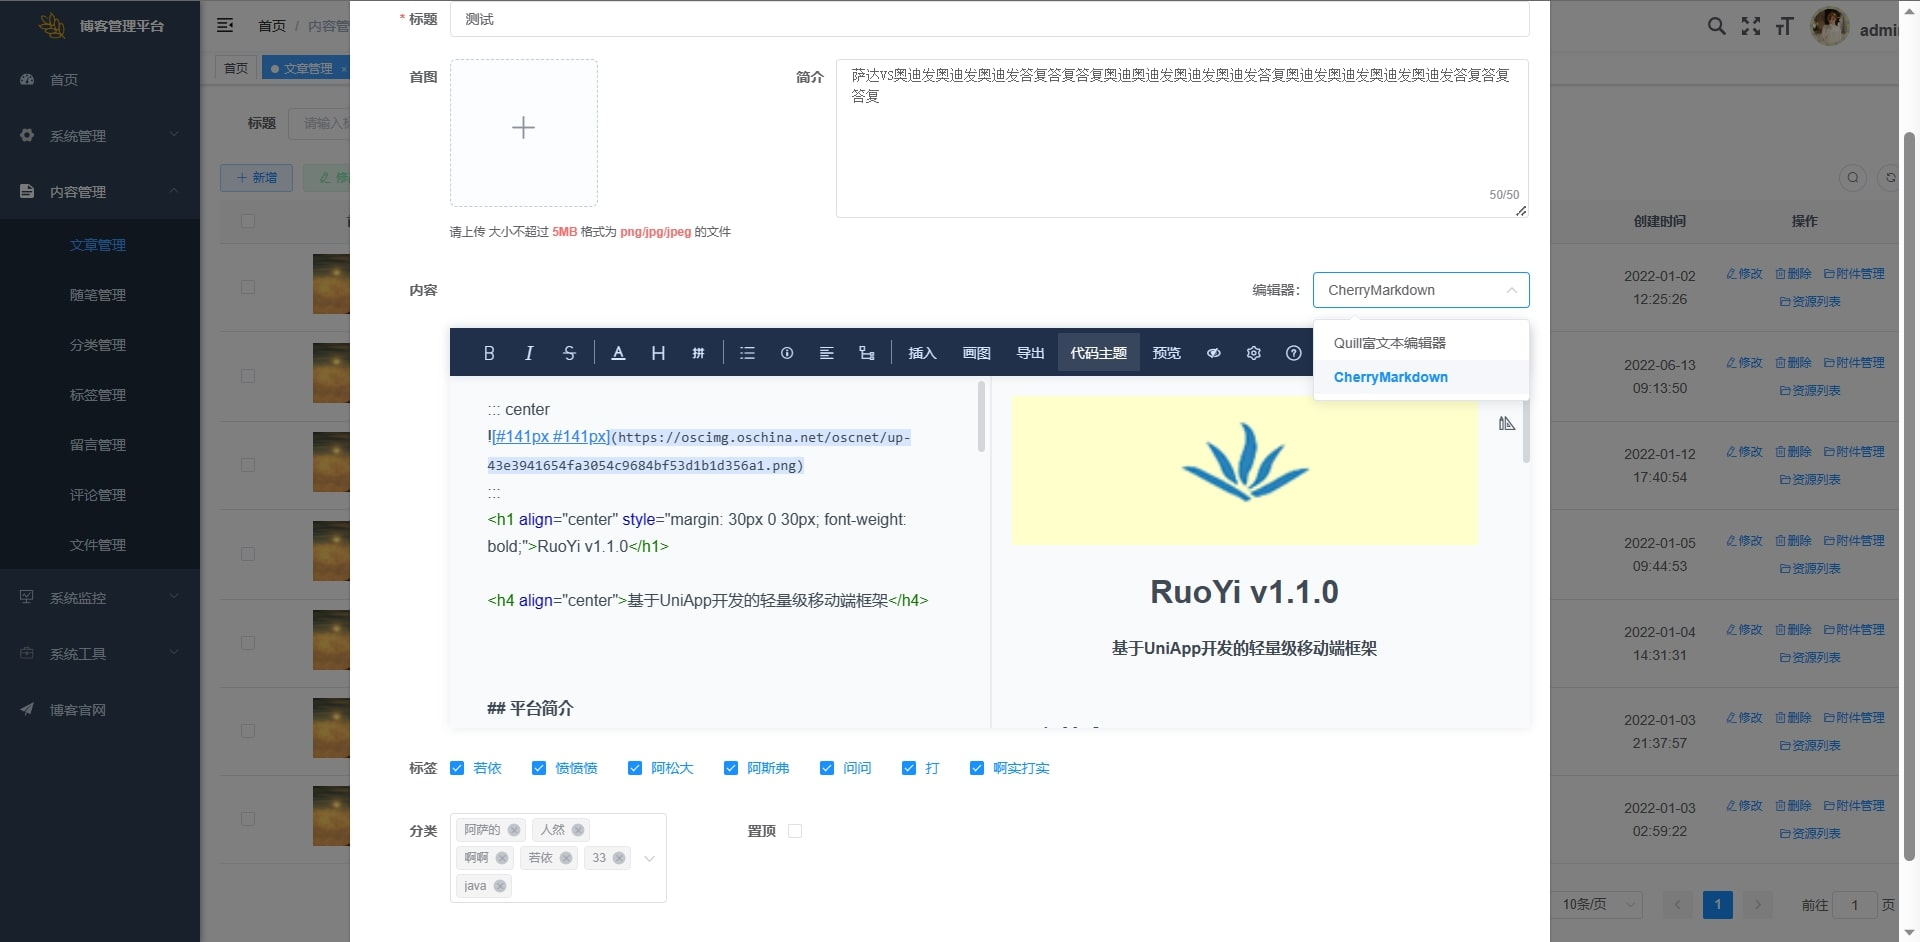
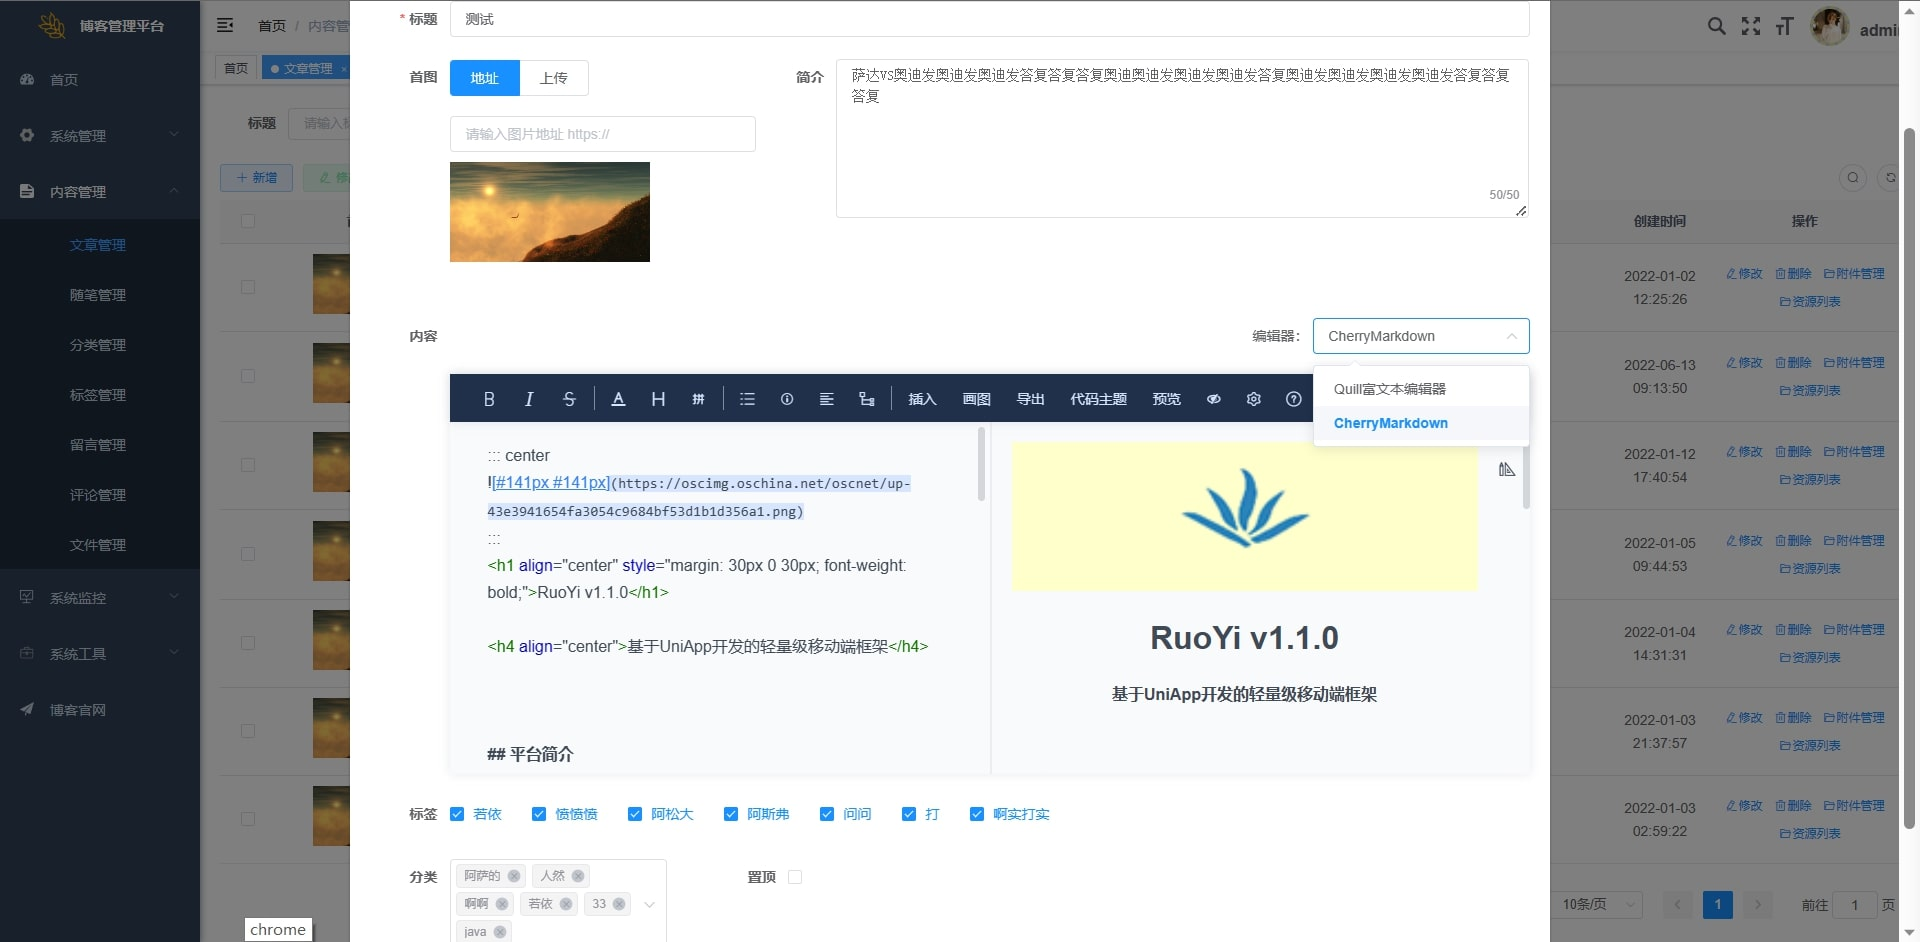
文章首图支持使用图片链接，分类图像支持使用图片链接

diff --git a/ruoyi-ui/src/views/cms/components/cmsIndex.vue b/ruoyi-ui/src/views/cms/components/cmsIndex.vue
@@ -12,42 +12,49 @@
         </div>
         <el-row type="flex" align="middle" style="flex-wrap: wrap" :gutter="20" v-for="blog in blogList" :key="blog.id"
           shadow="never" class="blog-content">
-          <el-col class="img" :xs="24" :sm="6">
-            <el-image lazy :src="blog.blogPic" @click="getBlogInfo(blog.id)"></el-image>
-          </el-col>
-          <el-col :xs="24" :sm="18" style="padding-left: 10px;padding-right: 10px;margin-bottom: 5px;margin-top: -5px;">
-            <div @click="getBlogInfo(blog.id)">
-              <h3><svg-icon icon-class="Topping" v-show="blog.top==1" /> {{blog.title}}</h3>
-              <div style="margin-bottom: 10px;">
-                  <span style="color: rgba(0, 0, 0, .4);"> {{blog.blogDesc}}</span>
-              </div>
-              <div style="margin-bottom: 10px;">
-                <el-tag effect="plain" size="mini" v-for="tag in blog.tags" :key="tag.tagId" type="success">
-                  {{tag.tagName}}
-                </el-tag>
-              </div>
-              <div class="blog-info">
-                <div class="user-info">
-                  <i class="el-icon-user"></i>
-                  <span class="header"> {{blog.createBy}}</span>
+          <div @click="getBlogInfo(blog.id)">
+            <el-col class="img" :xs="24" :sm="6">
+              <el-image v-if="blog.blogPicType == '0'" lazy :src="blog.blogPicLink">
+                <div slot="error" class="image-slot">
+                  <el-image src="/errorImg.jpg" fit="cover" class="blogPic">></el-image>
                 </div>
-                <div class="blog-date">
-                  <i class="el-icon-date"></i>
-                  <span> {{blog.createTime}}</span>
+              </el-image>
+              <el-image v-if="blog.blogPicType == '1'" lazy :src="blog.blogPic"></el-image>
+            </el-col>
+            <el-col :xs="24" :sm="18" style="padding-left: 10px;padding-right: 10px;margin-bottom: 5px;margin-top: -5px;">
+              <div>
+                <h3><svg-icon icon-class="Topping" v-show="blog.top==1" /> {{blog.title}}</h3>
+                <div style="margin-bottom: 10px;">
+                    <span style="color: rgba(0, 0, 0, .4);"> {{blog.blogDesc}}</span>
                 </div>
-                <div>
-                  <i class="el-icon-view"></i>
-                  <span> {{blog.views}}</span>
-                </div>
-                <div class="blog-type">
-                  <el-tag size="mini" v-for="tag in blog.types" :key="tag.typeId" type="info">
-                    {{tag.typeName}}
+                <div style="margin-bottom: 10px;">
+                  <el-tag effect="plain" size="mini" v-for="tag in blog.tags" :key="tag.tagId" type="success">
+                    {{tag.tagName}}
                   </el-tag>
                 </div>
+                <div class="blog-info">
+                  <div class="user-info">
+                    <i class="el-icon-user"></i>
+                    <span class="header"> {{blog.createBy}}</span>
+                  </div>
+                  <div class="blog-date">
+                    <i class="el-icon-date"></i>
+                    <span> {{blog.createTime}}</span>
+                  </div>
+                  <div>
+                    <i class="el-icon-view"></i>
+                    <span> {{blog.views}}</span>
+                  </div>
+                  <div class="blog-type">
+                    <el-tag size="mini" v-for="tag in blog.types" :key="tag.typeId" type="info">
+                      {{tag.typeName}}
+                    </el-tag>
+                  </div>
 
+                </div>
               </div>
-            </div>
-          </el-col>
+            </el-col>
+          </div>
         </el-row>
         <pagination v-show="total>0" :total="total" :page.sync="queryParams.pageNum" :limit.sync="queryParams.pageSize" background layout="total, sizes, prev, pager, next, jumper" @pagination="getBlogList"  style="margin-bottom: 30px;float: right;margin-right: 10px;"/>
       </el-card>
@@ -63,7 +70,13 @@
             :class="cmsType.typeId === typeId? 'activeType':''">
             <div style="display: flex;align-items: center">
               <el-image style="width: 28px;height: 28px; border-radius: 50%; margin-right: 10px" lazy
-                :src="cmsType.typePic">
+                :src="cmsType.typePicLink" v-show="cmsType.typePicType == '0'">
+                <div slot="error" style="width: 28px;height: 28px; border-radius: 50%;">
+                  <i class="el-icon-collection" style="margin-left:6px;"></i>
+                </div>
+              </el-image>
+              <el-image style="width: 28px;height: 28px; border-radius: 50%; margin-right: 10px" lazy
+                :src="cmsType.typePic" v-show="cmsType.typePicType == '1'">
                 <div slot="error" style="width: 28px;height: 28px; border-radius: 50%;">
                   <i class="el-icon-collection" style="margin-left:6px;"></i>
                 </div>
@@ -432,7 +445,7 @@
     box-shadow: 0 0 20px 0 white;
     transition: all .2s;
   }
-  
+
   .left-item .pagination-container{
     background:rgb(255, 255, 255,0)
   }

diff --git a/ruoyi-ui/src/views/cms/blog/index.vue b/ruoyi-ui/src/views/cms/blog/index.vue
@@ -44,11 +44,22 @@
       <el-table-column label="首图预览" align="center" prop="blogPic" >
         <template slot-scope="scope">
           <el-image
-              style="width: 120px;height: 60px;"
-              :src="scope.row.blogPic"
-              lazy
-              :preview-src-list="[scope.row.blogPic]">
-            </el-image>
+            v-if="scope.row.blogPicType == '0'"
+            style="width: 120px;height: 60px;"
+            :src="scope.row.blogPicLink"
+            lazy
+            :preview-src-list="[scope.row.blogPicLink]">
+              <div slot="error" class="image-slot">
+                <el-image src="/errorImg.jpg" fit="cover" class="blogPic"></el-image>
+              </div>
+          </el-image>
+          <el-image
+            v-if="scope.row.blogPicType == '1'"
+            style="width: 120px;height: 60px;"
+            :src="scope.row.blogPic"
+            lazy
+            :preview-src-list="[scope.row.blogPic]">
+          </el-image>
         </template>
       </el-table-column>
       <el-table-column label="标题" align="center" prop="title" />
@@ -103,7 +114,21 @@
         <el-row>
           <el-col :span="8">
             <el-form-item label="首图">
-              <imageUpload v-model="form.blogPic" :limit="1" />
+              <el-radio-group v-model="form.blogPicType">
+                <el-radio-button label="0">地址</el-radio-button>
+                <el-radio-button label="1">上传</el-radio-button>
+              </el-radio-group>
+              <div v-show="form.blogPicType == '0'" class="tabBlock">
+                <el-input v-model="form.blogPicLink" placeholder="请输入图片地址 https://" style="margin-bottom: 10px;" />
+                <el-image :src="form.blogPicLink" :preview-src-list="[form.blogPicLink]" fit="cover" class="blogPic" >
+                  <div slot="error" class="image-slot">
+                    <el-image src="/errorImg.jpg" fit="cover" class="blogPic"></el-image>
+                  </div>
+                </el-image>
+              </div>
+              <div v-show="form.blogPicType == '1'" class="tabBlock">
+                <imageUpload v-model="form.blogPic" :limit="1" />
+              </div>
             </el-form-item>
           </el-col>
           <el-col :span="16">
@@ -346,6 +371,9 @@
             }else{
               response.rows[i].blogPic = '/errorImg.jpg'
             }
+            if (blogInfo.blogPicLink.length == 0) {
+              response.rows[i].blogPicLink = '/errorImg.jpg'
+            }
           };
           this.blogList = response.rows;
           this.total = response.total;
@@ -387,7 +415,9 @@
           status: "0",
           blogDesc: null,
           blogFiles: null,
+          blogPicType: "0",
           blogPic: null,
+          blogPicLink: null,
           tagIds: [],
           typeIds: [],
           blogFilesNew: [],
@@ -712,5 +742,13 @@
   .blogFilesInfoName {
     text-align: center;
     padding-top: 5px;
+  }
+  .tabBlock {
+    height: 180px;
+    margin-top: 20px;
+  }
+  .blogPic {
+    width: 200px;
+    height: 100px;
   }
 </style>

diff --git a/ruoyi-ui/src/views/cms/type/index.vue b/ruoyi-ui/src/views/cms/type/index.vue
@@ -36,11 +36,15 @@
       <!-- <el-table-column label="分类ID" align="center" prop="typeId" /> -->
       <el-table-column label="分类图像" align="center" prop="typePic" width="100">
         <template slot-scope="scope">
-          <el-image style="width: 28px;height: 28px; border-radius: 50%; margin-right: 10px" :src="scope.row.typePic" lazy
-            :preview-src-list="[scope.row.typePic]">
+          <el-image style="width: 28px;height: 28px; border-radius: 50%; margin-right: 10px" :src="scope.row.typePicLink" lazy :preview-src-list="[scope.row.typePicLink]" v-if="scope.row.typePicType == '0'">
             <div slot="error" class="image-slot">
-                    <i class="el-icon-collection"></i>
-                  </div>
+              <i class="el-icon-collection"></i>
+            </div>
+          </el-image>
+          <el-image style="width: 28px;height: 28px; border-radius: 50%; margin-right: 10px" :src="scope.row.typePic" lazy :preview-src-list="[scope.row.typePic]" v-if="scope.row.typePicType == '1'">
+            <div slot="error" class="image-slot">
+              <i class="el-icon-collection"></i>
+            </div>
           </el-image>
         </template>
       </el-table-column>
@@ -72,7 +76,21 @@
           <el-input v-model="form.typeName" placeholder="请输入分类名称" />
         </el-form-item>
         <el-form-item label="分类图像">
-          <imageUpload v-model="form.typePic" :limit="1" />
+          <el-radio-group v-model="form.typePicType">
+            <el-radio-button label="0">地址</el-radio-button>
+            <el-radio-button label="1">上传</el-radio-button>
+          </el-radio-group>
+          <div v-show="form.typePicType == '0'" class="tabBlock">
+            <el-input v-model="form.typePicLink" placeholder="请输入图片地址 https://" style="margin-bottom: 10px;" />
+            <el-image :src="form.typePicLink" :preview-src-list="[form.typePicLink]" fit="cover" class="typePic" >
+              <div slot="error" class="image-slot">
+                <i class="el-icon-collection"></i>
+              </div>
+            </el-image>
+          </div>
+          <div v-show="form.typePicType == '1'" class="tabBlock">
+            <imageUpload v-model="form.typePic" :limit="1" />
+          </div>
         </el-form-item>
       </el-form>
       <div slot="footer" class="dialog-footer">
@@ -171,7 +189,9 @@
           updateBy: null,
           updateTime: null,
           typeName: null,
-          typePic: null
+          typePicType: '0',
+          typePic: null,
+          typePicLink: null
         };
         this.resetForm("form");
       },
@@ -248,3 +268,15 @@
     }
   };
 </script>
+
+<style scoped lang="scss">
+  .tabBlock {
+    height: 180px;
+    margin-top: 20px;
+  }
+  .typePic {
+    width: 28px;
+    height: 28px;
+    border-radius: 50%;
+  }
+</style>

diff --git a/ruoyi-cms/src/main/java/com/ruoyi/cms/blog/domain/CmsBlog.java b/ruoyi-cms/src/main/java/com/ruoyi/cms/blog/domain/CmsBlog.java
@@ -71,9 +71,19 @@ public class CmsBlog extends BaseEntity {
     @Excel(name = "状态", readConverterExp = "0=暂存,1=发布")
     private String status;
 
-    /** 首页图片 */
-    @Excel(name = "首页图片")
+    /**
+     * 首页图片类型（0地址 1上传）
+     */
+    @Excel(name = "首页图片类型", readConverterExp = "0=地址,1=上传")
+    private String blogPicType;
+
+    /** 首页图片（ 1上传） */
+    @Excel(name = "首页图片（ 1上传）")
     private String blogPic;
+
+    /** 首页图片（ 0地址） */
+    @Excel(name = "首页图片（ 0地址）")
+    private String blogPicLink;
 
     /** 简介 */
     @Excel(name = "简介")
@@ -226,6 +236,22 @@ public class CmsBlog extends BaseEntity {
         this.contentMarkdown = contentMarkdown;
     }
 
+    public String getBlogPicType() {
+        return blogPicType;
+    }
+
+    public void setBlogPicType(String blogPicType) {
+        this.blogPicType = blogPicType;
+    }
+
+    public String getBlogPicLink() {
+        return blogPicLink;
+    }
+
+    public void setBlogPicLink(String blogPicLink) {
+        this.blogPicLink = blogPicLink;
+    }
+
     @Override
     public String toString() {
         return new ToStringBuilder(this, ToStringStyle.MULTI_LINE_STYLE)
@@ -246,7 +272,9 @@ public class CmsBlog extends BaseEntity {
                 .append("tagIds", getTagIds())
                 .append("tags", getTags())
                 .append("types", getTypes())
+                .append("blogPicType", getBlogPicType())
                 .append("blogPic", getBlogPic())
+                .append("blogPicLink", getBlogPicLink())
                 .append("blogDesc", getBlogDesc())
                 .append("blogFiles", getBlogFiles())
                 .toString();

diff --git a/ruoyi-cms/src/main/java/com/ruoyi/cms/type/domain/CmsType.java b/ruoyi-cms/src/main/java/com/ruoyi/cms/type/domain/CmsType.java
@@ -22,9 +22,19 @@ public class CmsType extends BaseEntity
     @Excel(name = "分类名称")
     private String typeName;
 
-    /** 分类图像 */
-    @Excel(name = "分类图像")
+    /**
+     * 分类图像类型（0地址 1上传）
+     */
+    @Excel(name = "分类图像类型（0地址 1上传）", readConverterExp = "0=地址,1=上传")
+    private String typePicType;
+
+    /** 分类图像（ 1上传） */
+    @Excel(name = "分类图像（ 1上传）")
     private String typePic;
+
+    /** 分类图像（ 0地址） */
+    @Excel(name = "分类图像（ 0地址）")
+    private String typePicLink;
 
     /** 博客数量 */
     private int blogNum;
@@ -65,6 +75,22 @@ public class CmsType extends BaseEntity
         this.blogNum = blogNum;
     }
 
+    public String getTypePicType() {
+        return typePicType;
+    }
+
+    public void setTypePicType(String typePicType) {
+        this.typePicType = typePicType;
+    }
+
+    public String getTypePicLink() {
+        return typePicLink;
+    }
+
+    public void setTypePicLink(String typePicLink) {
+        this.typePicLink = typePicLink;
+    }
+
     @Override
     public String toString() {
         return new ToStringBuilder(this,ToStringStyle.MULTI_LINE_STYLE)
@@ -75,6 +101,8 @@ public class CmsType extends BaseEntity
             .append("updateTime", getUpdateTime())
             .append("typeName", getTypeName())
             .append("typePic", getTypePic())
+                .append("typePicType", getTypePicType())
+                .append("typePicLink", getTypePicLink())
                 .append("blogNum", getBlogNum())
             .toString();
     }
